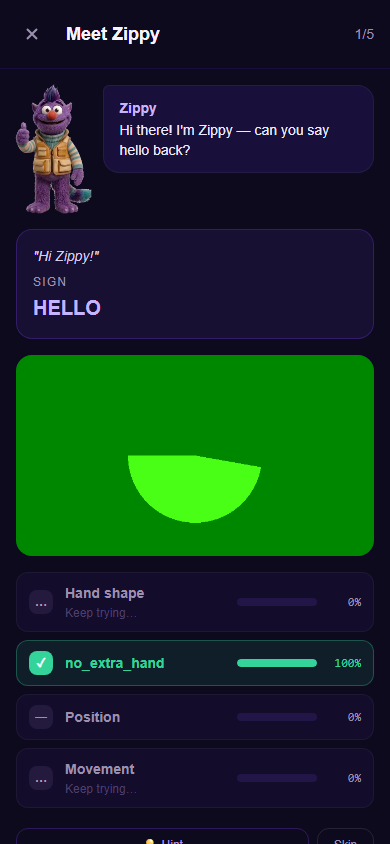
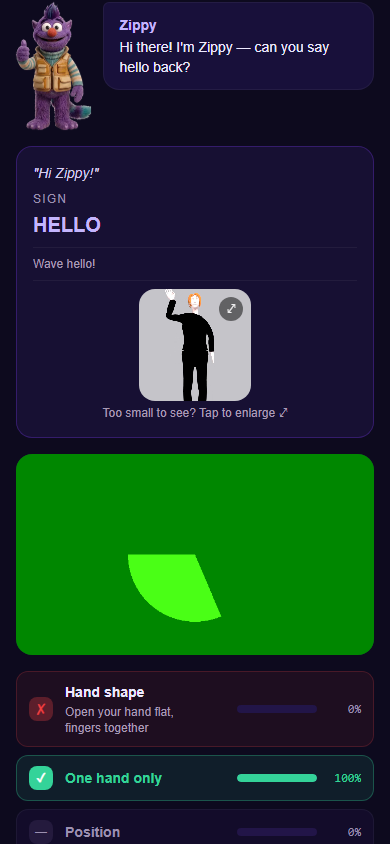
Fix critique findings: mobile hero below fold, debug labels, contrast
Dual-agent /impeccable critique found a P0: the phone mockup was
reordered above the hero text on mobile (order:-1), pushing the
headline and both CTAs entirely below the fold on real phone
viewports. Removed the reorder so text comes first.

Also fixes:
- no_extra_hand was genuinely missing from ParameterChecklist's
  friendly-name map, so real users practicing one-handed signs saw
  the raw internal name, not just the marketing screenshot. Added
  "One hand only" and recaptured both screenshots against a
  production preview build (dev mode was leaking a debug overlay
  panel into the frame).
- .step-num's white text on the gradient's light end measured
  2.48:1, below the 3:1 floor for bold text — switched to the solid
  color the page's own CSS comment says the gradient is reserved
  against (CTA + wordmark only).
- Three different CTA labels for the same destination unified to
  "Start learning free"; footer link changed to a plain wordmark
  ("QuickSign ↗") instead of implying a distinct action.
- Added an honest FAQ item acknowledging Deaf/HoH sign-accuracy
  review is a known gap, not yet done — PRODUCT.md names this
  audience explicitly and the page previously said nothing about it.

diff --git a/web/public/landing.html b/web/public/landing.html
@@ -62,6 +62,11 @@
       "@type": "Question",
       "name": "Is it free?",
       "acceptedAnswer": { "@type": "Answer", "text": "Yes, QuickSign is free to use." }
+    },
+    {
+      "@type": "Question",
+      "name": "Was the sign content checked by Deaf ASL signers?",
+      "acceptedAnswer": { "@type": "Answer", "text": "Not yet — we're a small student team and this is an open beta. Sign accuracy review by Deaf and hard-of-hearing signers is a known gap we want to close. If that's you, we'd genuinely value your feedback." }
     }
   ]
 }
@@ -617,7 +622,9 @@
   .step-num {
     width: 40px; height: 40px;
     border-radius: 12px;
-    background: var(--gradient);
+    /* Solid, not the gradient: the gradient's light end under white text measured 2.48:1 (below
+       the 3:1 floor for bold text), and the gradient is reserved for the CTA + wordmark only. */
+    background: var(--purple);
     display: flex; align-items: center; justify-content: center;
     font-weight: 700;
     margin-bottom: 18px;
@@ -660,7 +667,7 @@
     border: 1px solid rgba(255,255,255,0.08);
     max-width: 320px;
   }
-  .story-shot img { width: 100%; aspect-ratio: 390/400; object-fit: cover; object-position: center 58%; }
+  .story-shot img { width: 100%; aspect-ratio: 390/844; object-fit: cover; object-position: top; }
 
   /* ---------- Multiplayer / gamification ---------- */
   .mp-grid {
@@ -849,7 +856,9 @@
       gap: 18px;
     }
     .hero-inner { grid-template-columns: 1fr; }
-    .phone-wrap { order: -1; margin-bottom: 24px; }
+    /* Text comes first on mobile: the phone mockup is tall enough that reordering it above the
+       headline pushed the H1 and CTA entirely below the fold on real phone viewports. */
+    .phone-wrap { margin-top: 32px; }
     .phone { width: 220px; height: 449px; }
     .trust-grid { grid-template-columns: repeat(2, 1fr); }
     .steps { grid-template-columns: 1fr; }
@@ -886,7 +895,7 @@
       <a href="#worlds">Worlds</a>
       <a href="#multiplayer">Multiplayer</a>
       <a href="#faq">FAQ</a>
-      <a href="https://aslgame.vercel.app/" target="_blank" rel="noopener noreferrer" class="btn btn-primary">Try it free</a>
+      <a href="https://aslgame.vercel.app/" target="_blank" rel="noopener noreferrer" class="btn btn-primary">Start learning free</a>
     </div>
     <button class="nav-toggle" id="navToggle" aria-label="Toggle navigation menu" aria-expanded="false" aria-controls="navLinks">☰</button>
   </div>
@@ -1080,6 +1089,10 @@
           <summary>Is it free?</summary>
           <div class="faq-a"><p>Yes, QuickSign is free to use.</p></div>
         </details>
+        <details class="faq-item">
+          <summary>Was the sign content checked by Deaf ASL signers?</summary>
+          <div class="faq-a"><p>Not yet — we're a small student team and this is an open beta. Sign accuracy review by Deaf and hard-of-hearing signers is a known gap we want to close. If that's you, we'd genuinely value your feedback.</p></div>
+        </details>
       </div>
     </div>
   </section>
@@ -1114,7 +1127,7 @@
       <span>Privacy first</span>
     </div>
     <div class="footer-copy">
-      <a href="https://aslgame.vercel.app/" target="_blank" rel="noopener noreferrer" style="color: var(--purple-light); font-weight: 700; text-decoration: none;">Open QuickSign →</a>
+      <a href="https://aslgame.vercel.app/" target="_blank" rel="noopener noreferrer" style="color: var(--purple-light); font-weight: 700; text-decoration: none;">QuickSign ↗</a>
       &nbsp;·&nbsp; © 2026 QuickSign
     </div>
   </div>

diff --git a/web/src/components/lesson/ParameterChecklist.tsx b/web/src/components/lesson/ParameterChecklist.tsx
@@ -11,6 +11,7 @@ const FRIENDLY_NAMES: Record<string, string> = {
   movement: 'Movement',
   orientation: 'Palm direction',
   nmm: 'Facial expression',
+  no_extra_hand: 'One hand only',
 };
 
 const MOVEMENT_HINTS: Record<string, string> = {
